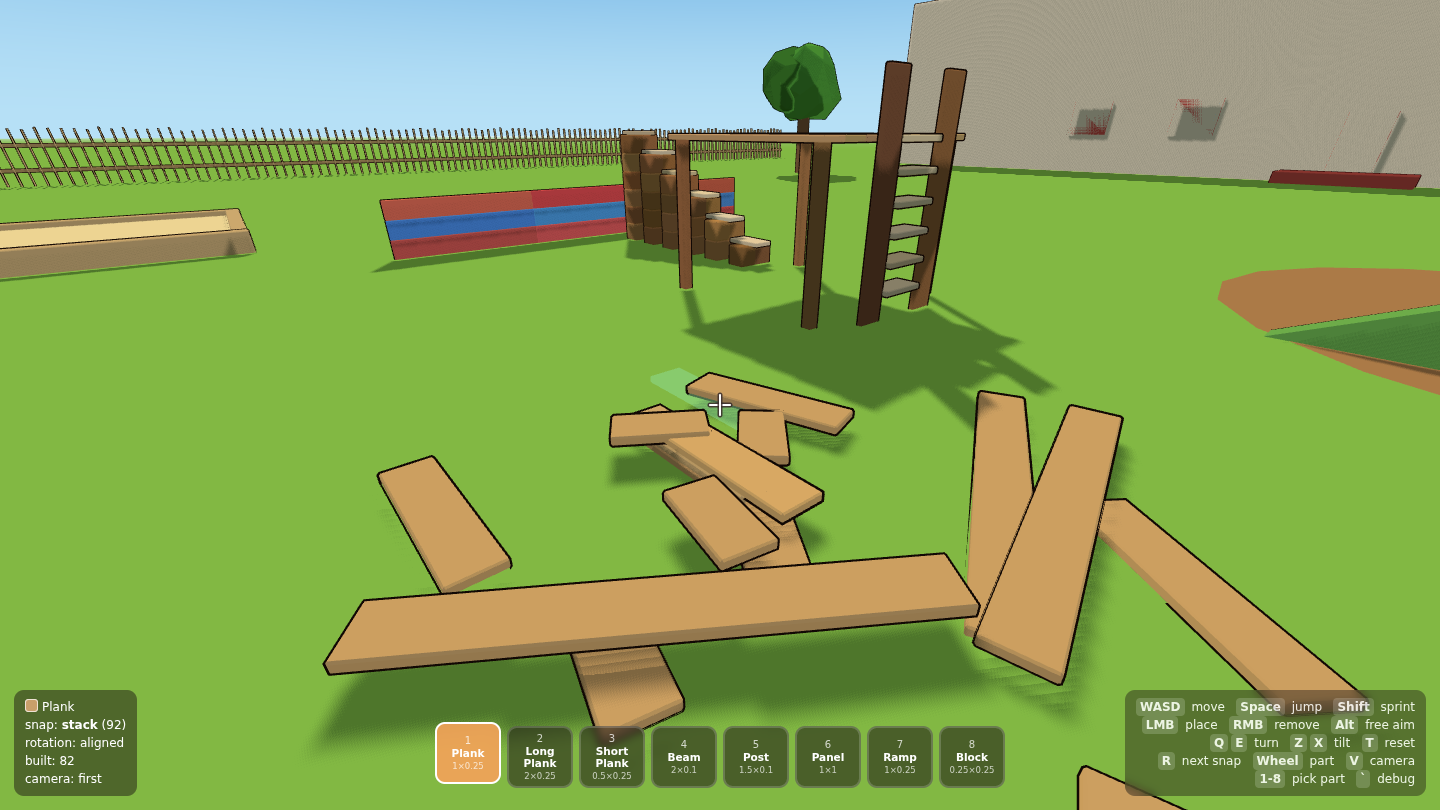
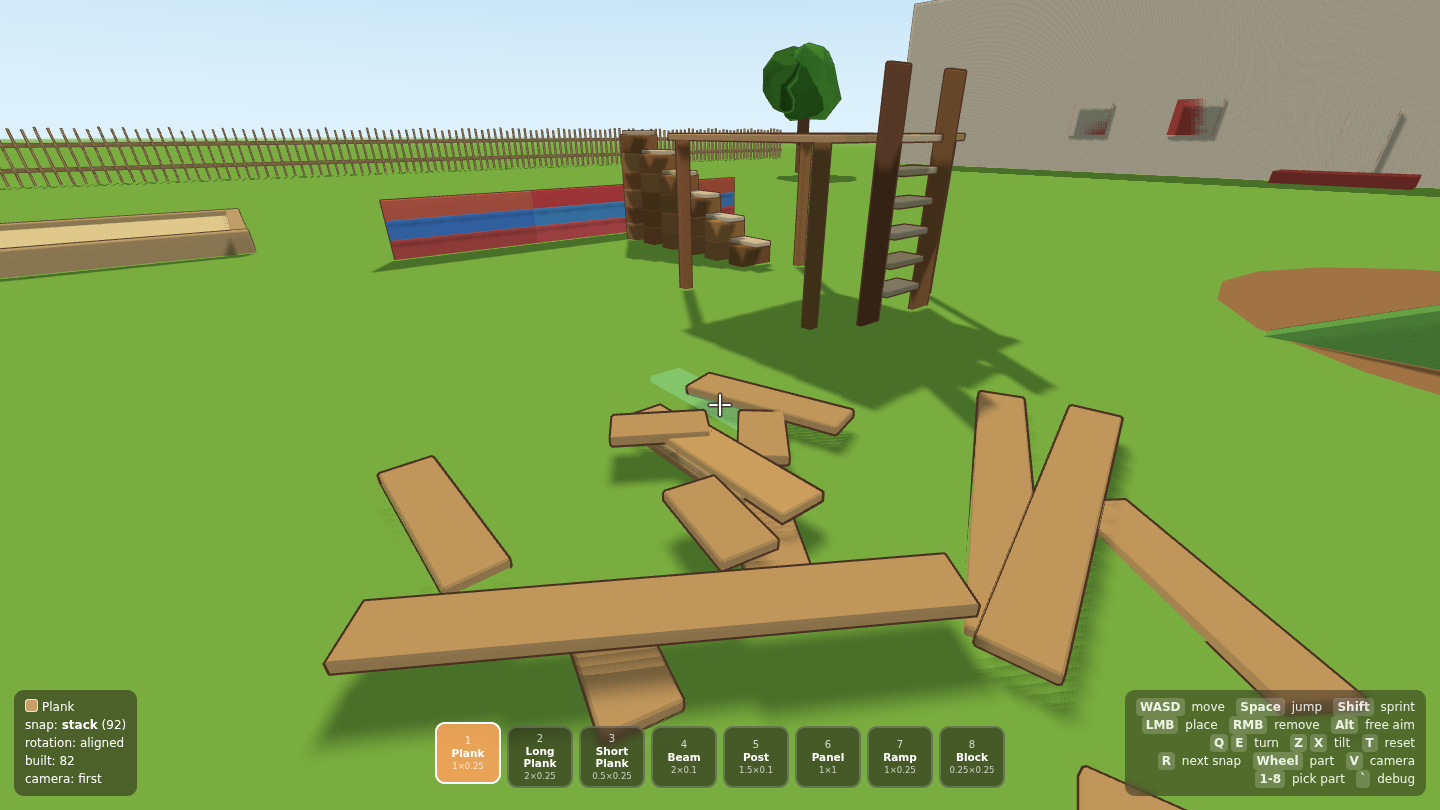
Fix color space in custom shaders, panel thickness, and shadow rebuild storm
Found by a design review that read the shipped code rather than assuming
a greenfield repo. Each of these was verified against three r185's source
before changing anything.

- The sky and outline shaders wrote gl_FragColor directly and never ran
  linearToOutputTexel, which three's own materials apply via
  colorspace_fragment. Both were rendering darker than the palette they
  were given, and the outline ink had drifted off the specified colors.
- The panel was 0.02m thick, but the shadow normalBias is 0.012 — larger
  than the panel's half-thickness, so the bias pushed the shadow sample
  clean through the board. Every part is now one board thickness (0.05),
  which also divides the module exactly.
- Shadow map rebuilds were triggered per placement. Holding the place
  button lays a part every ten ticks, and re-rendering every caster in the
  yard that often costs far more than the parts being added. Now debounced
  to at most one rebuild per quarter second, which is invisible — the
  shadow trails the geometry by a fraction of a second at worst. The
  initial world still builds its shadows on frame one.
- Sun and hemisphere intensities summed above 1.0 against albedo and
  clipped highlights under NoToneMapping; trimmed to 2.6 and 0.5.

Claude-Session: https://claude.ai/code/session_01JY3AUcPGjaEqV9iVCLLoh3

diff --git a/src/main.ts b/src/main.ts
@@ -51,8 +51,27 @@ scene.add(parts.group);
 const build = new BuildSystem(world, parts);
 scene.add(build.ghostGroup);
 
-/** Rebuild the static shadow map after the world changes. */
+/**
+ * Mark the shadow map stale after the world changes.
+ *
+ * Debounced rather than immediate. Holding the place button lays a part every
+ * ten ticks, and rebuilding a 2048² shadow map that often — re-rendering every
+ * caster in the yard each time — costs far more than the parts being added.
+ * Collapsing a burst of placements into one rebuild is invisible: the shadow is
+ * at most a fraction of a second behind the geometry that casts it.
+ */
+let shadowsDirty = false;
+let shadowsLastRebuild = 0;
+const SHADOW_REBUILD_INTERVAL = 0.25;
+
 function worldChanged(): void {
+  shadowsDirty = true;
+}
+
+function flushShadows(nowSeconds: number): void {
+  if (!shadowsDirty || nowSeconds - shadowsLastRebuild < SHADOW_REBUILD_INTERVAL) return;
+  shadowsDirty = false;
+  shadowsLastRebuild = nowSeconds;
   invalidateShadows();
   renderer.shadowMap.needsUpdate = true;
 }
@@ -69,7 +88,10 @@ const hud = new Hud(app);
 const input = new Input(renderer.domElement);
 
 parts.setViewportHeight(window.innerHeight);
-worldChanged();
+// The starter structures are already in; draw their shadows on the first frame
+// rather than a quarter second later.
+invalidateShadows();
+renderer.shadowMap.needsUpdate = true;
 
 // ── Player avatar, visible in third person ───────────────────────────────────
 const avatar = new THREE.Group();
@@ -181,6 +203,7 @@ function render(alpha: number, frameDt: number): void {
   avatar.position.set(state.x, state.y, state.z);
   avatar.rotation.y = camera.yaw;
 
+  flushShadows(performance.now() / 1000);
   renderer.render(scene, camera.camera);
 
   hud.update({

diff --git a/src/world/scene.ts b/src/world/scene.ts
@@ -105,6 +105,10 @@ function addSky(scene: THREE.Scene): void {
         // tone, which keeps the scene feeling open rather than heavy.
         float t = smoothstep( 0.0, 0.55, h );
         gl_FragColor = vec4( mix( horizonColor, topColor, t ), 1.0 );
+        // Three's own materials end with this; a custom shader that writes
+        // gl_FragColor directly skips the linear-to-sRGB conversion and comes
+        // out visibly darker than everything around it.
+        #include <colorspace_fragment>
       }
     `,
     side: THREE.BackSide,
@@ -118,7 +122,7 @@ function addSky(scene: THREE.Scene): void {
 }
 
 function addLights(scene: THREE.Scene): void {
-  const sun = new THREE.DirectionalLight(0xfff4d6, 3.0);
+  const sun = new THREE.DirectionalLight(0xfff4d6, 2.6);
   sun.name = 'sun';
   sun.position.copy(SUN_DIRECTION).multiplyScalar(60);
   sun.target.position.set(0, 0, 0);
@@ -153,7 +157,7 @@ function addLights(scene: THREE.Scene): void {
   // The green ground bounce is the single highest-value light here: it tints
   // every downward-facing surface with grass, and the scene immediately reads
   // as outdoors on a lawn rather than in a void.
-  scene.add(new THREE.HemisphereLight(0xbfe6ff, 0x7fa84a, 0.55));
+  scene.add(new THREE.HemisphereLight(0xbfe6ff, 0x7fa84a, 0.5));
 }
 
 function addGround(scene: THREE.Scene): void {

diff --git a/src/build/partKit.ts b/src/build/partKit.ts
@@ -78,7 +78,7 @@ export const PART_KINDS: readonly PartKind[] = [
   part(2, 'plank_short', 'Short Plank', 0.5, BOARD_THICKNESS, MODULE),
   part(3, 'beam', 'Beam', 2.0, 0.1, 0.1, { chamfer: 0.012 }),
   part(4, 'post', 'Post', 1.5, 0.1, 0.1, { chamfer: 0.012 }),
-  part(5, 'panel', 'Panel', 1.0, 0.02, 1.0, { chamfer: 0.006, material: 'ply' }),
+  part(5, 'panel', 'Panel', 1.0, BOARD_THICKNESS, 1.0, { chamfer: 0.006, material: 'ply' }),
   part(6, 'ramp', 'Ramp', 1.0, 0.5, MODULE, { isWedge: true, chamfer: 0.01 }),
   part(7, 'block', 'Block', MODULE, MODULE, MODULE, { chamfer: 0.015 }),
 ];

diff --git a/src/render/toonMaterial.ts b/src/render/toonMaterial.ts
@@ -190,9 +190,13 @@ export function createOutlineMaterial(color: number, worldThickness: number): TH
       }
     `,
     fragmentShader: /* glsl */ `
+      #include <common>
       uniform vec3 outlineColor;
       void main() {
         gl_FragColor = vec4( outlineColor, 1.0 );
+        // Without this the ink renders darker than intended and drifts away
+        // from the outline colors the palette actually specifies.
+        #include <colorspace_fragment>
       }
     `,
     side: THREE.BackSide,
